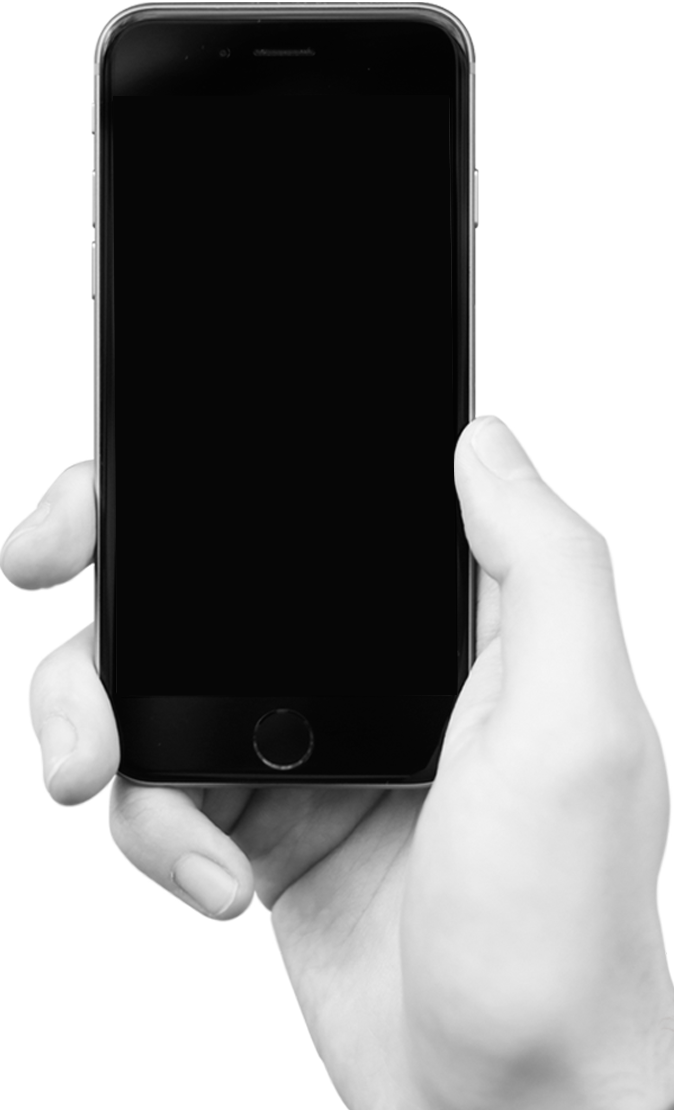
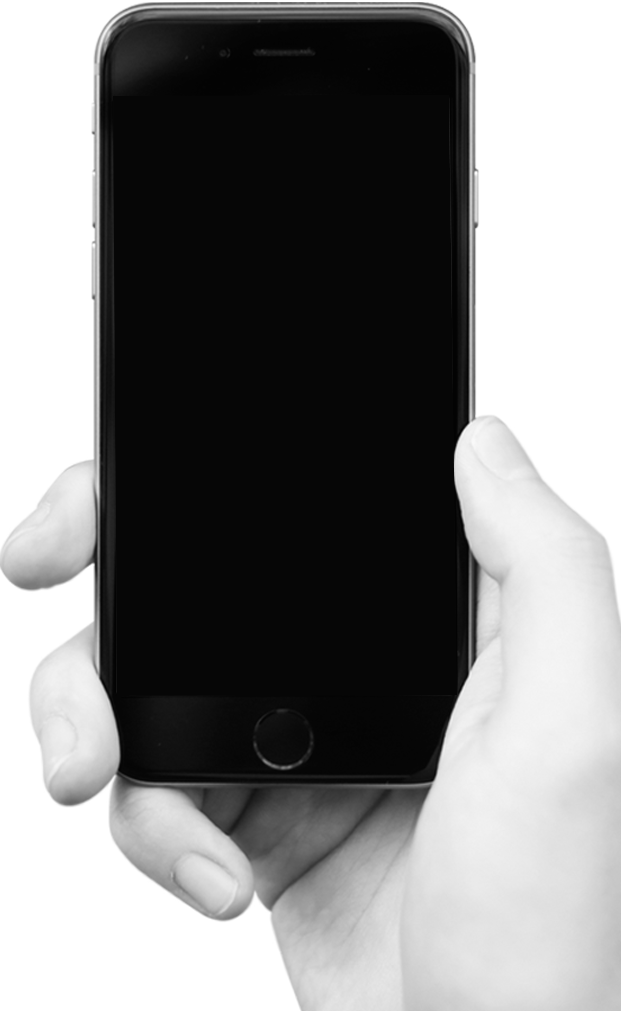
round two of mobile site

Changed region(s): [[0.0, 0.0, 0.9485, 1.0], [0.8261, 0.4906, 1.0, 0.8892], [0.9791, 0.9812, 1.0, 1.0]]

diff --git a/app/assets/stylesheets/bootstrap_and_overrides.css.less b/app/assets/stylesheets/bootstrap_and_overrides.css.less
@@ -242,17 +242,17 @@
 .mobile-phone-container {
 	background-color: @main-color;
 	width: 100% !important;
-	height: 1350px;
+	height: 1550px;
 	position: absolute;
 	top: 1050px;
 }
 
 .mobile-melt-phone-screen-container {
-	width: 45%;
+	width: 52%;
 	z-index: 1001;
 	position: absolute;
-	left: 26%;
-	top: 220px;
+	left: 22.5%;
+	top: 240px;
 	.mobile-melt-phone-screen {
 		width: 100%;
 	}
@@ -262,16 +262,16 @@
 	z-index: 2000;
 	width: 125px;
 	position: absolute;
-	left: 68%;
-	top: 290px;
+	left: 72%;
+	top: 330px;
 	
 }
 	
 .mobile-melt-hand-model {
 	z-index: 1000;
-	width: 90%;
+	width: 95%;
 	position: absolute;
-	right: 0;
+	left: 5%;
 	top: 100px;
 }
 
@@ -280,7 +280,7 @@
 	position: absolute;
 	z-index: 3000;
 	width: 100%;
-	top: 2400px;
+	top: 2600px;
 	.mobile-videos-container-inner {
 		height: 100%;
 		width: 100%;
